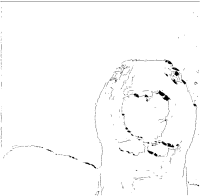
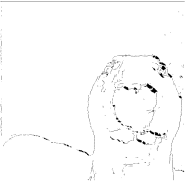
quality parameter support

diff --git a/index.js b/index.js
@@ -21,7 +21,9 @@ class ESCPOSImageProcessor {
         }
 
         this.hasConverted = false;
+        this.hasResized = false;
         this.path = "";
+        this.processID = this.genProcessID();
     }
 
     /**
@@ -47,47 +49,96 @@ class ESCPOSImageProcessor {
      */
     convert(path, out, callback) {
         this.path = out;
+        this.hasResized = false;
 
-        Image.load(path).then(img => {
-            const threshold = 30;
+        Jimp.read(path).then(oImg => {
 
-            const edge = cannyEdgeDetector(img.grey(), {
-                lowThreshold: threshold,
-                highThreshold: threshold,
-                gaussianBlur: threshold / 10
-            });
+            if(this.options.quality == "good") {
+                let ratio = this.getRatio(oImg);
+
+                oImg.resize(ratio.w, ratio.h);
+                this.hasResized = true;
+            }
+
+            const orgPath = `./${this.processID}-org.png`;
+            oImg.write(orgPath, () => {
+                Image.load(orgPath).then(img => {
+                    fs.unlinkSync(orgPath);
+                    const threshold = 30;
         
-            edge.save("./edges.png").then(() => {
-                replaceColor({
-                    image: "./edges.png",
-                    colors: {
-                        type: "hex",
-                        targetColor: "#000000",
-                        replaceColor: "#00000000"
-                    }
-                }, (err1, eImg) => {
-                    fs.unlink("./edges.png");
-                    if(!err1) {
-                        let ratio = {
-                            w: eImg.getWidth(),
-                            h: eImg.getHeight()
-                        };
-                    
-                        let w = this.options.width || 185;
-                        let h = w * (ratio.h / ratio.w);
-        
-                        eImg.invert().resize(w, h).write(out, () => {
-                            this.hasConverted = true;
-                            callback(path);
-                        });
-                    } else {
+                    const edge = cannyEdgeDetector(img.grey(), {
+                        lowThreshold: threshold,
+                        highThreshold: threshold,
+                        gaussianBlur: threshold / 10
+                    });
+                
+                    const edgePath = `./${this.processID}-edges.png`;
+                    edge.save(edgePath).then(() => {
+                        replaceColor({
+                            image: edgePath,
+                            colors: {
+                                type: "hex",
+                                targetColor: "#000000",
+                                replaceColor: "#00000000"
+                            }
+                        }, (err2, eImg) => {
+                            fs.unlinkSync(edgePath);
+                            if(!err2) {
+                                eImg.invert();
+
+                                if(this.options.quality == "best" || !this.hasResized) {
+                                    let ratio = this.getRatio(eImg);
+
+                                    eImg.resize(ratio.w, ratio.h)
+                                    this.hasResized = true;
+                                }
+
+                                eImg.write(out, () => {
+                                    this.hasConverted = true;
+
+                                    callback(path);
+                                });
+                            } else {
+                                console.log(err2);
+                                callback(false);
+                            }
+                        })
+                    }).catch(err1 => {
+                        console.log(err1);
                         callback(false);
-                    }
+                    });
                 })
-            }).catch(err0 => {
-                callback(false);
             });
-        })
+        }).catch(err0 => {
+            console.log(err0);
+            callback(false);
+        });
+    }
+
+    genProcessID() {
+        let t = "";
+        let p = "ABCDEFGHIJKLMNOPQRSTUVWXYZabcdefghijklmnopqrstuvwxyz0123456789";
+        
+        for(var i=0; i<5; i++){
+            t += p.charAt(Math.floor(Math.random() * p.length));
+        }
+        
+        return t;
+    }
+
+    getRatio(img) {
+        let ratio = {
+            w: img.getWidth(),
+            h: img.getHeight()
+        };
+    
+        let w = this.options.width || 185;
+        let h = w * (ratio.h / ratio.w);
+
+        return {
+            w: w,
+            h: h
+        }
     }
 }
 

diff --git a/examples/processor.js b/examples/processor.js
@@ -5,5 +5,9 @@ const processor = new ESCPOSImageProcessor({
 });
 
 processor.convert("./dog.jpg", "./processed.png", path => {
-    processor.print(device, printer);
+    if(path) {
+        console.log(`Processed image saved to ${path}`);
+    } else {
+        console.log("An Error Occurred");
+    }
 });

diff --git a/README.md b/README.md
@@ -15,7 +15,8 @@ const ESCPOSImageProcessor = require("escpos-image-processor");
 
 // Create an instance of the class
 const processor = new ESCPOSImageProcessor({
-    width: 185 /* optional, defaults to 185 (default 40mm printer roll width in px) */
+    width: 185, /* optional, defaults to 185 (default 40mm printer roll width in px) */
+    quality: "best" /* optional, defaults to "best" (slowest). another option is "good", which is faster but produces worse results */
 });
 
 // Put the path to your image in the first parameter (".in.png") and put the location where the image should be saved in the second parameter ("./processed.png").
@@ -40,7 +41,8 @@ const printer = new escpos.Printer(device);
 const ESCPOSImageProcessor = require("escpos-image-processor");
 
 const processor = new ESCPOSImageProcessor({
-    width: 185
+    width: 185,
+    quality: "best"
 });
 
 processor.convert("./in.png", "./processed.png", path => {
